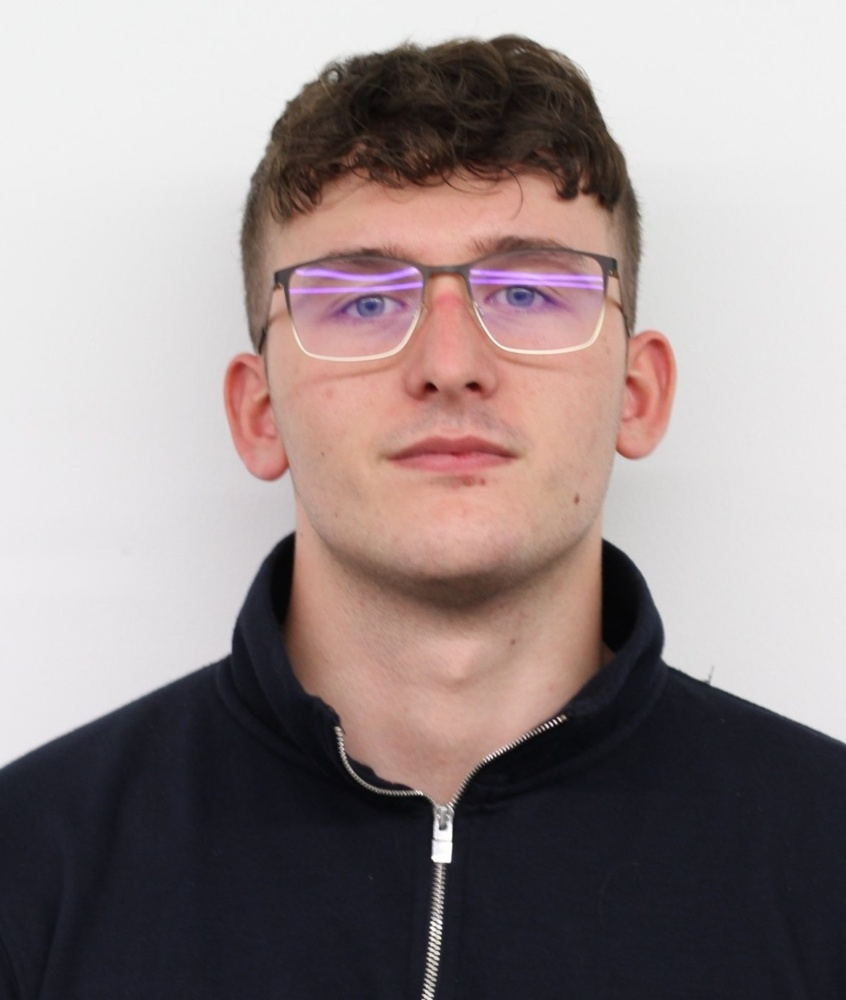
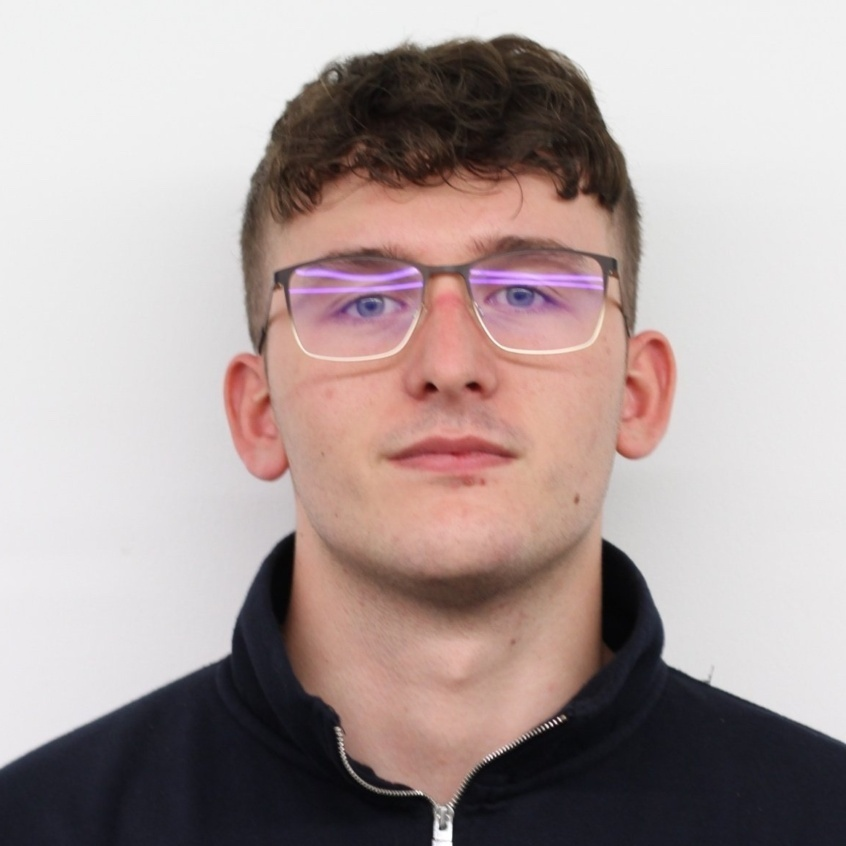
Recenter photos to avoid cropping top of heads

diff --git a/_profiles/Djordje Bozic/dj.md b/_profiles/Djordje Bozic/dj.md
@@ -3,7 +3,7 @@ name: Đorđe Božić
 supervisor: Özgür Şimşek
 researchInterests: ["Reinforcement learning"]
 linkedIn: https://www.linkedin.com/in/djordje-bozic
-profileImg: dj.webp
+profileImg: dj.jpg
 personalSite: https://bozic-djordje.github.io
 slug: dj
 ---

diff --git a/_profiles/Matt Hewitt/matt.md b/_profiles/Matt Hewitt/matt.md
@@ -1,6 +1,6 @@
 ---
 name: Matt Hewitt
-profileImg: matt.jpeg
+profileImg: matt.jpg
 linkedIn: https://www.linkedin.com/in/matthew-hewitt-460695133/
 supervisor: Özgür Şimşek
 researchInterests: ["Reinforcement learning"]
